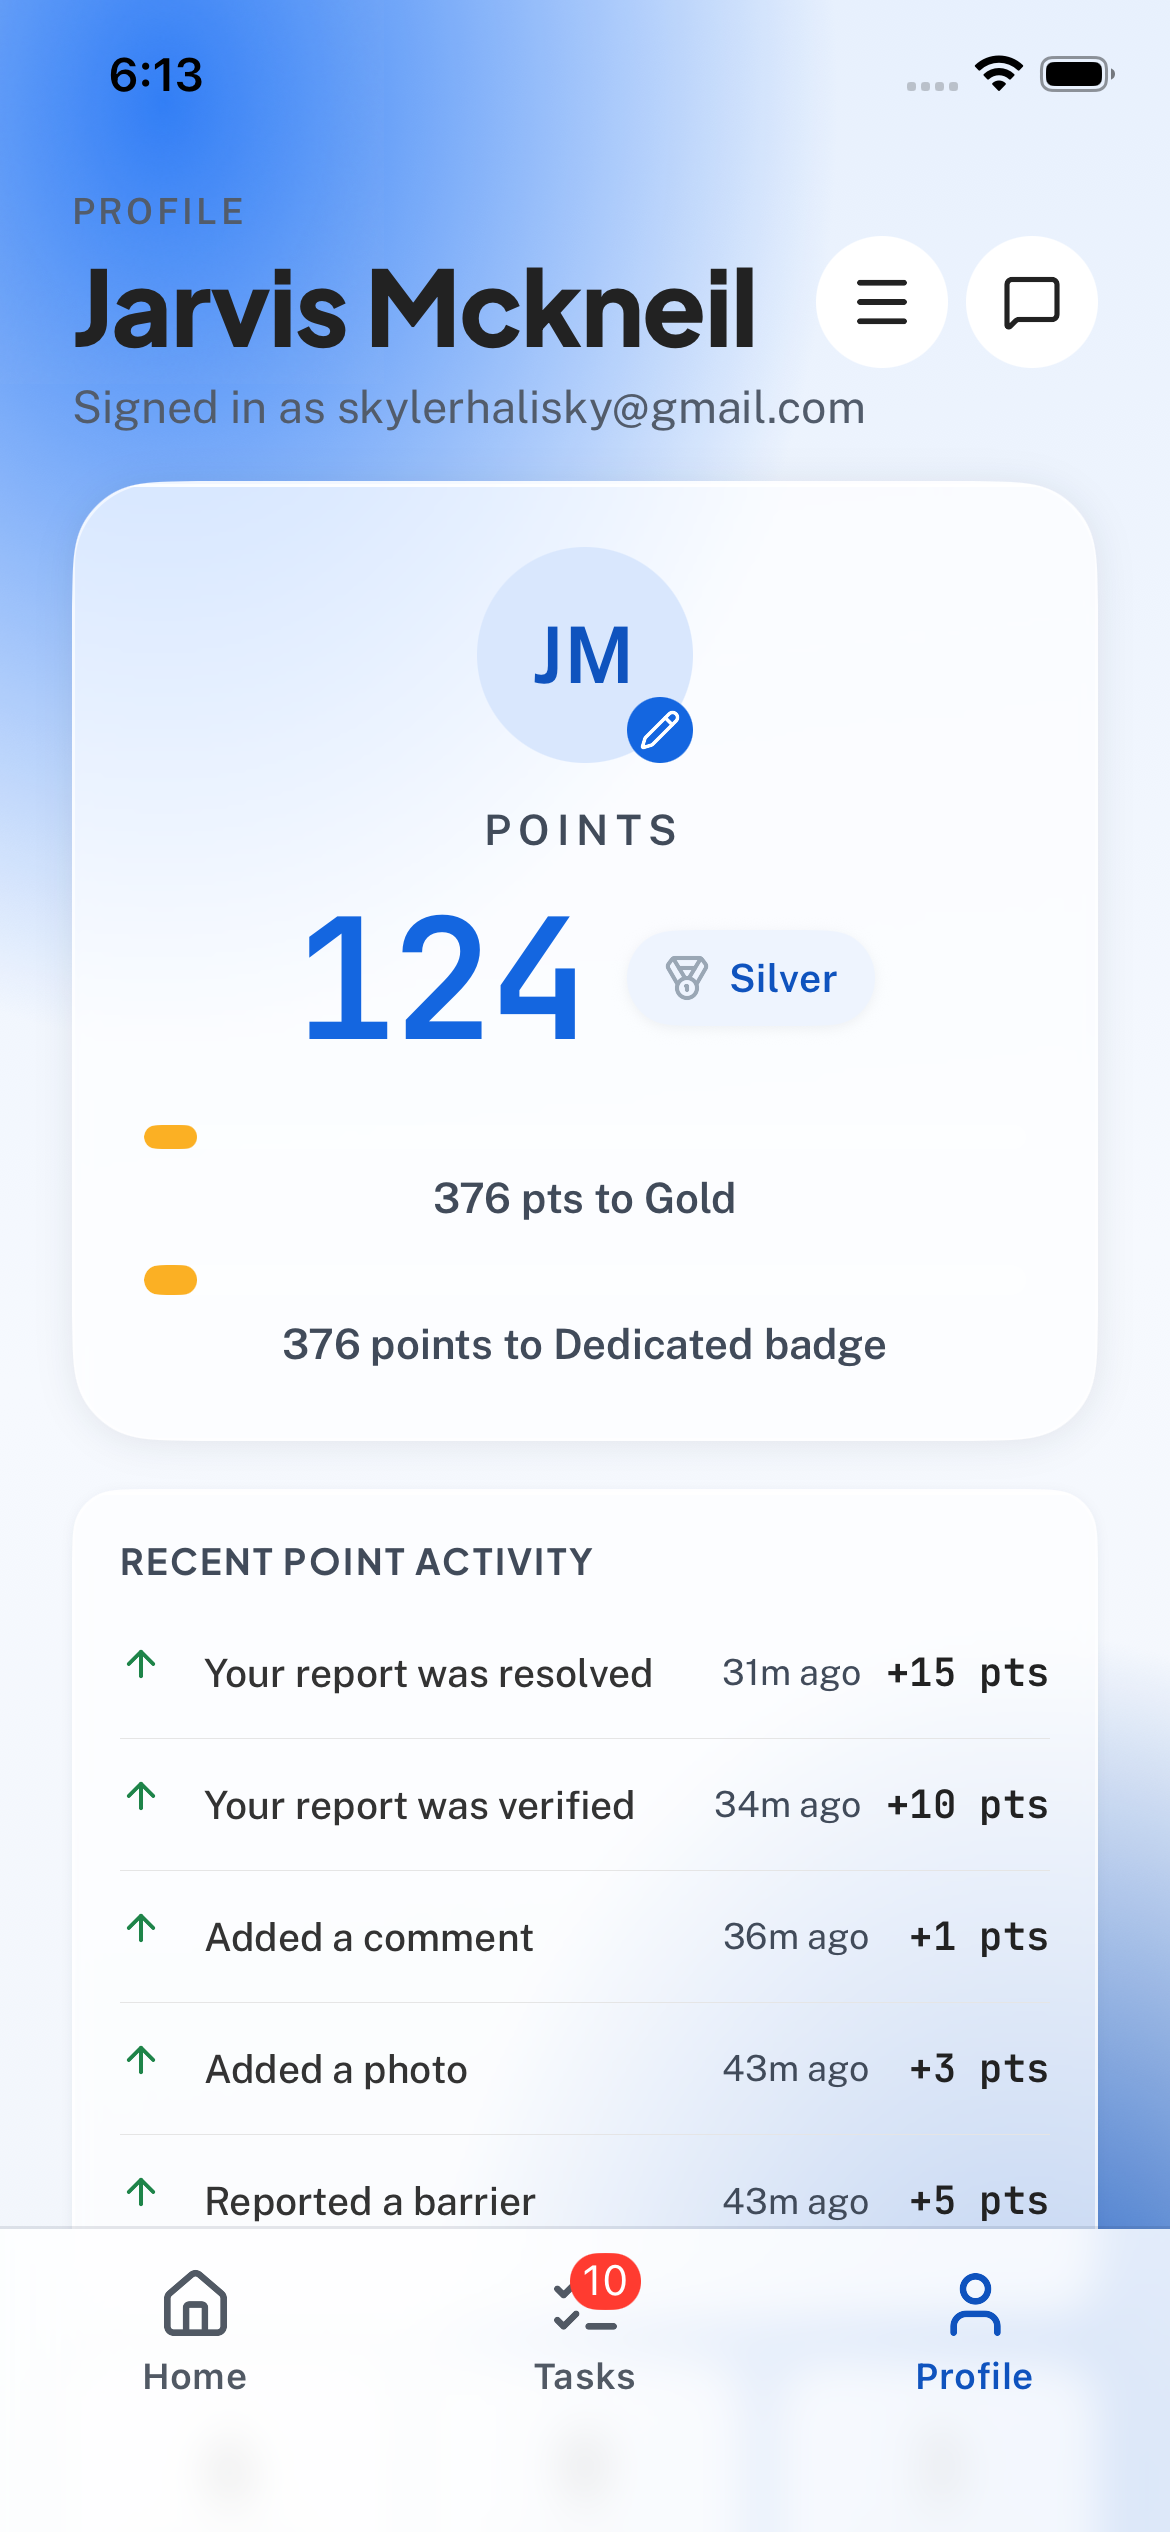
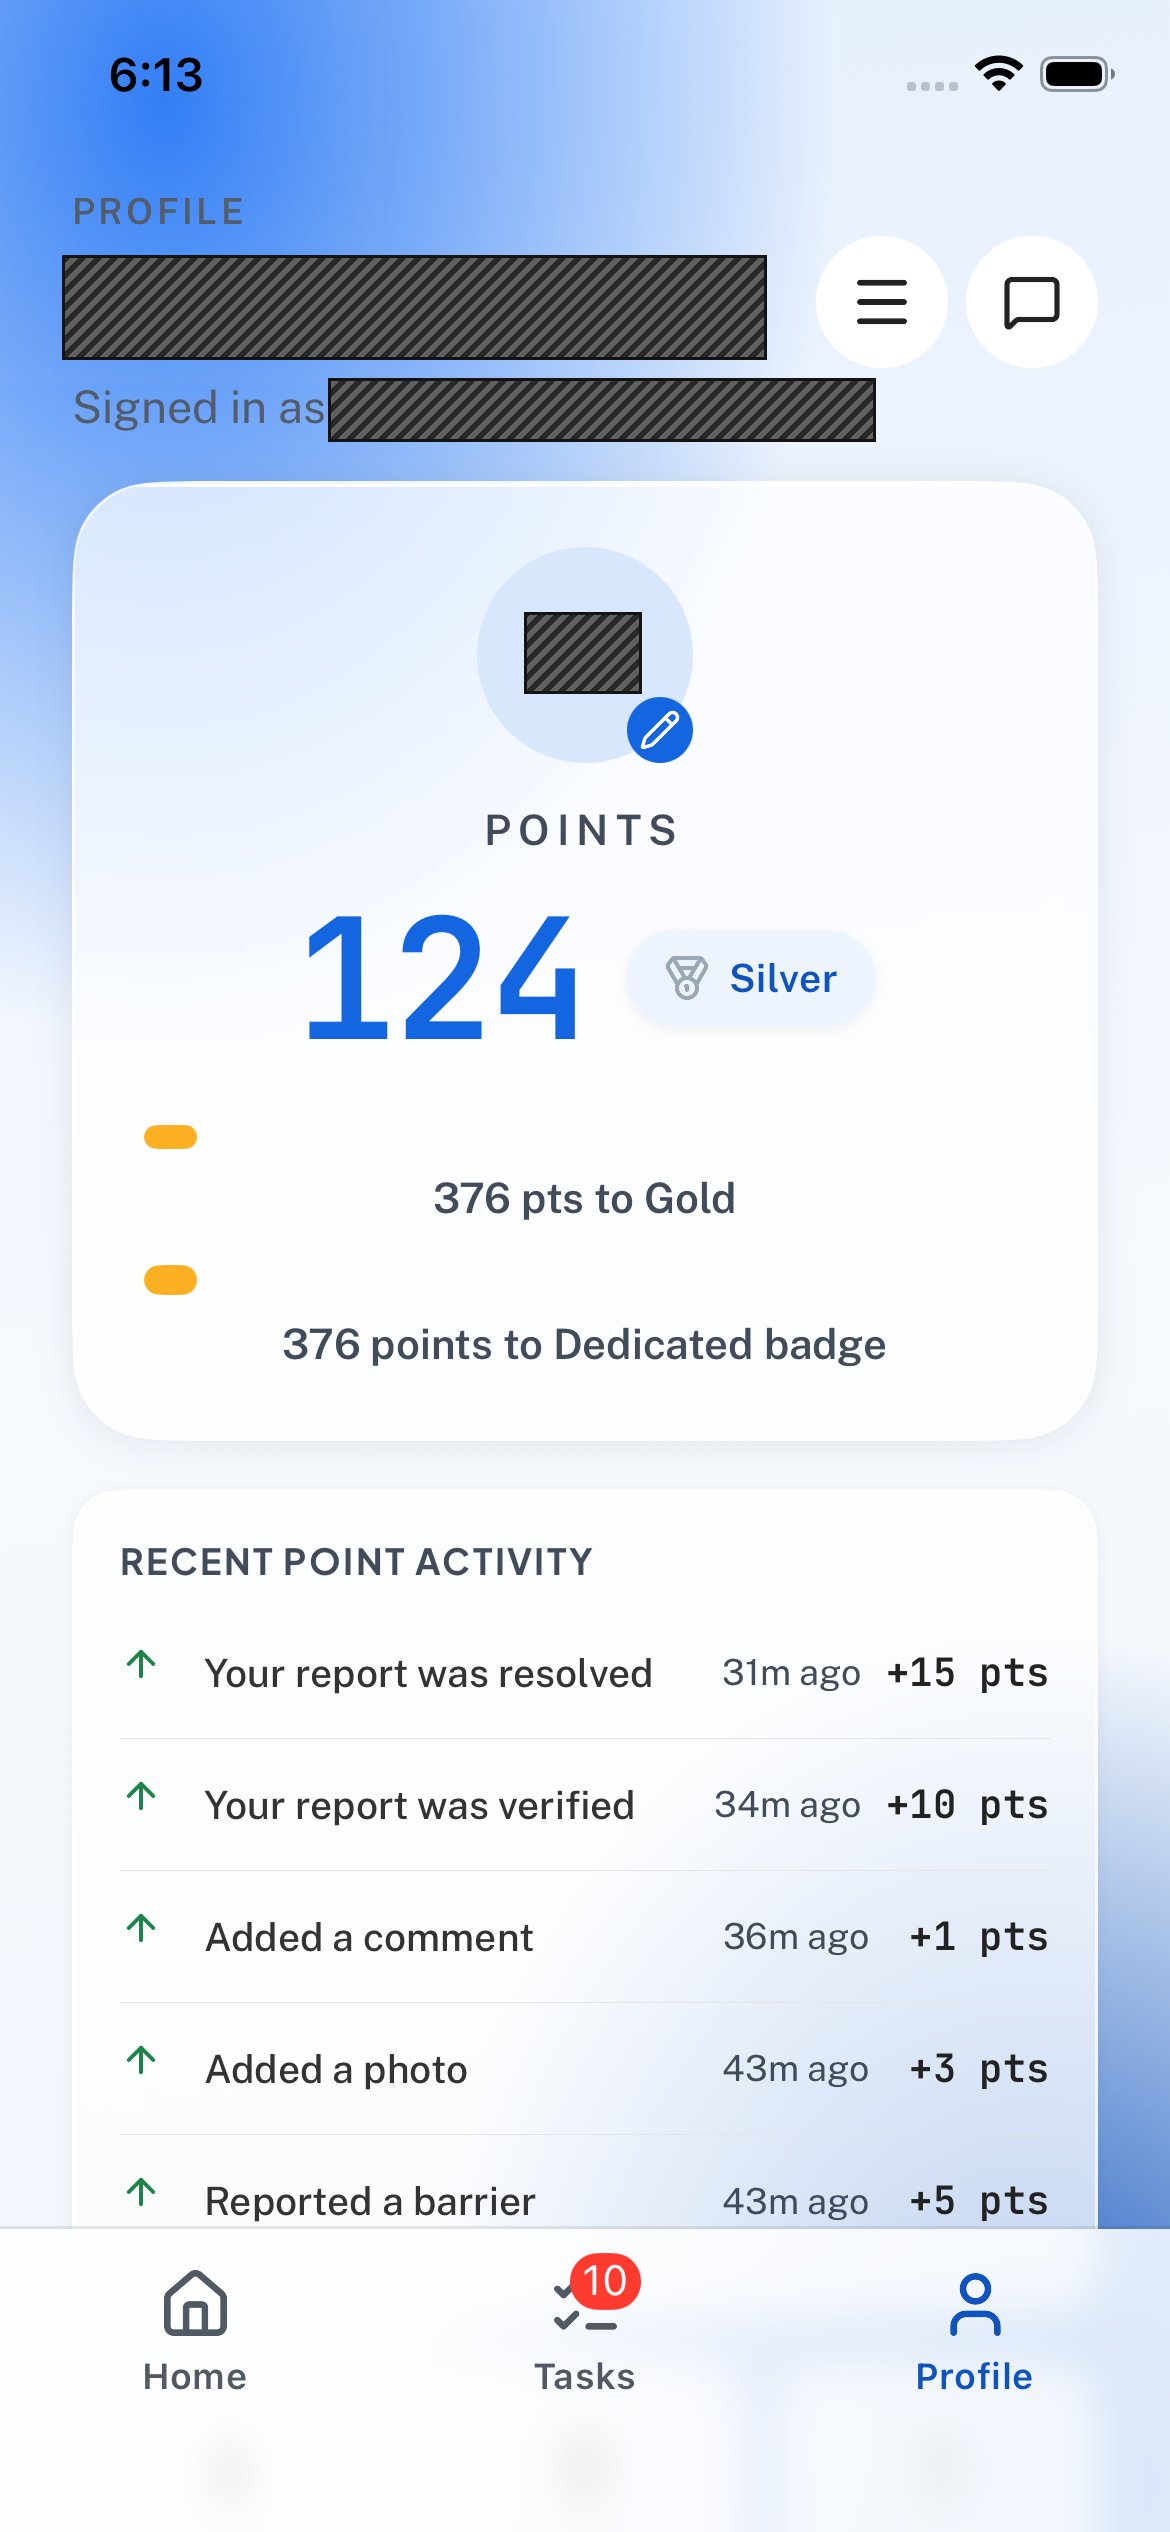
privacy(public-evidence): redact identity in sim-walk leaderboard and export captures
Batch V1b: six more sanitized derivatives from the 2026-08-20
authenticated simulator pass, each inspected at full resolution before
and after.

- C14_leaderboard, C14_leaderboard_scrolled: the signed-in row's display
  name. Kept on purpose: the "JA" monogram beside it and the "ME"
  monograms on anonymised rows, because they are the direct evidence for
  finding SW-44 (two letters, not identifying); ranks and point totals.
- C14_leaderboard_DARK, C9_achievements: display name in, or ghosting
  behind, the Profile name field.
- C19_export_authed: login email in the data-export share-sheet title
  ("Flagstone data export for [box]"); the title prefix stays as evidence.
- 17e-authed/A5b_profile_17e: display-name header, the "Signed in as"
  email and the avatar monogram (small-screen reflow evidence intact).

Dimensions unchanged; changed pixels equal the box areas (0.5-4.0%).
Paths unchanged.

Claude-Session: https://claude.ai/code/session_014WaV96nDkgbF6N7NiEpHgV

Changed region(s): [[0.0308, 0.0936, 0.7692, 0.1872], [0.4308, 0.2184, 0.5538, 0.2808]]

diff --git a/CLOUD_CHECKPOINT.md b/CLOUD_CHECKPOINT.md
@@ -39,7 +39,8 @@ SAFE_TO_RESUME: YES
 - T3 (a2f4d55e): sim-walk 2026-08-19 authed markdown, 10 files (identity tokens; possessive account-state claims decoupled; load-bearing numbers kept).
 - T4 (a111e497): sim-walk generated evidence, 9 files (8 census JSON stay valid; console log: identity tokens + owner data-export report locations/text).
 - T5 (08bbac58): art-direction 2026-08-21 + v4.1.1 EAS readiness, 5 files (incl. truncated email form).
-- V1a: 6 sim-walk signed-in Profile-family captures (name/email/monogram; own-report card detail).
+- V1a (73656d0c): 6 sim-walk signed-in Profile-family captures (name/email/monogram; own-report card detail).
+- V1b: 6 sim-walk captures (leaderboard x3 name only - JA/ME monograms kept as SW-44 evidence; achievements ghost name; export share-sheet email; 17e Profile name/email/monogram).
 
 ## Open item IDs
 - FD-01 history, FD-02 frozen-path PII (eas.json appleId, RLS maintainer email, test fixture display name), FD-03 hash-bound captures, FD-04 intentional contacts / operational docs, FD-05 About, FD-06 merge, FD-07 rename.
